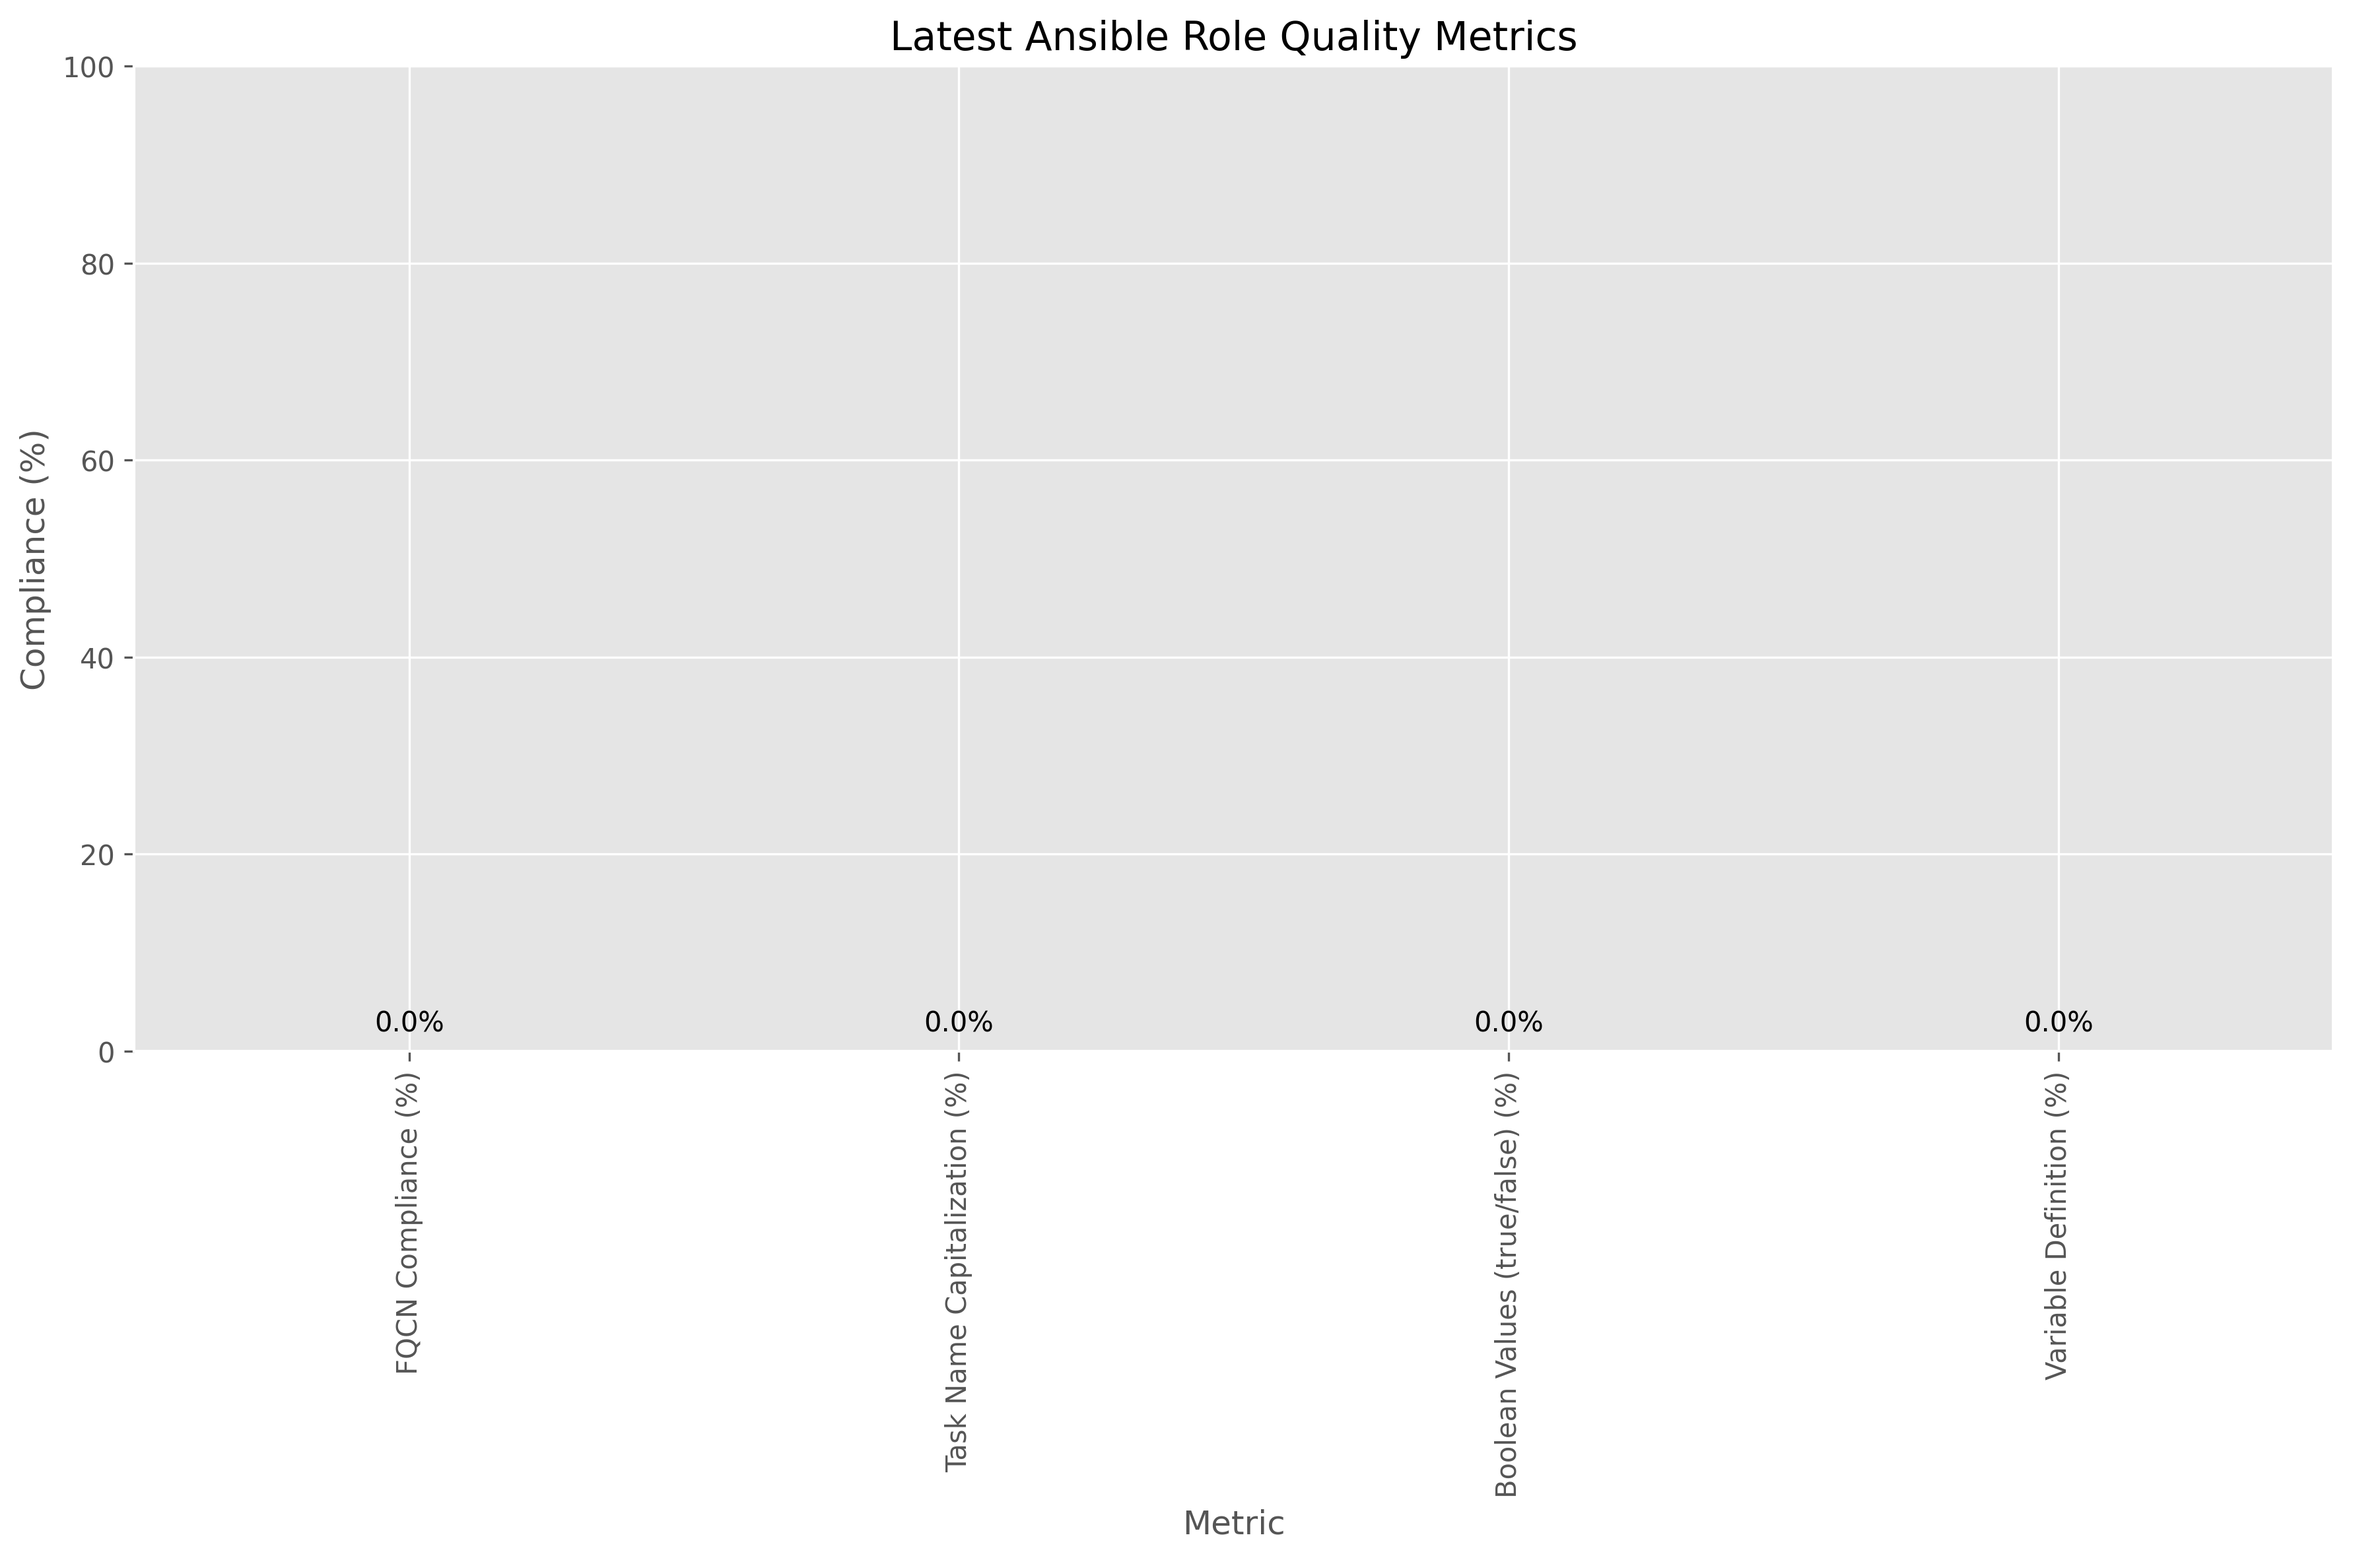
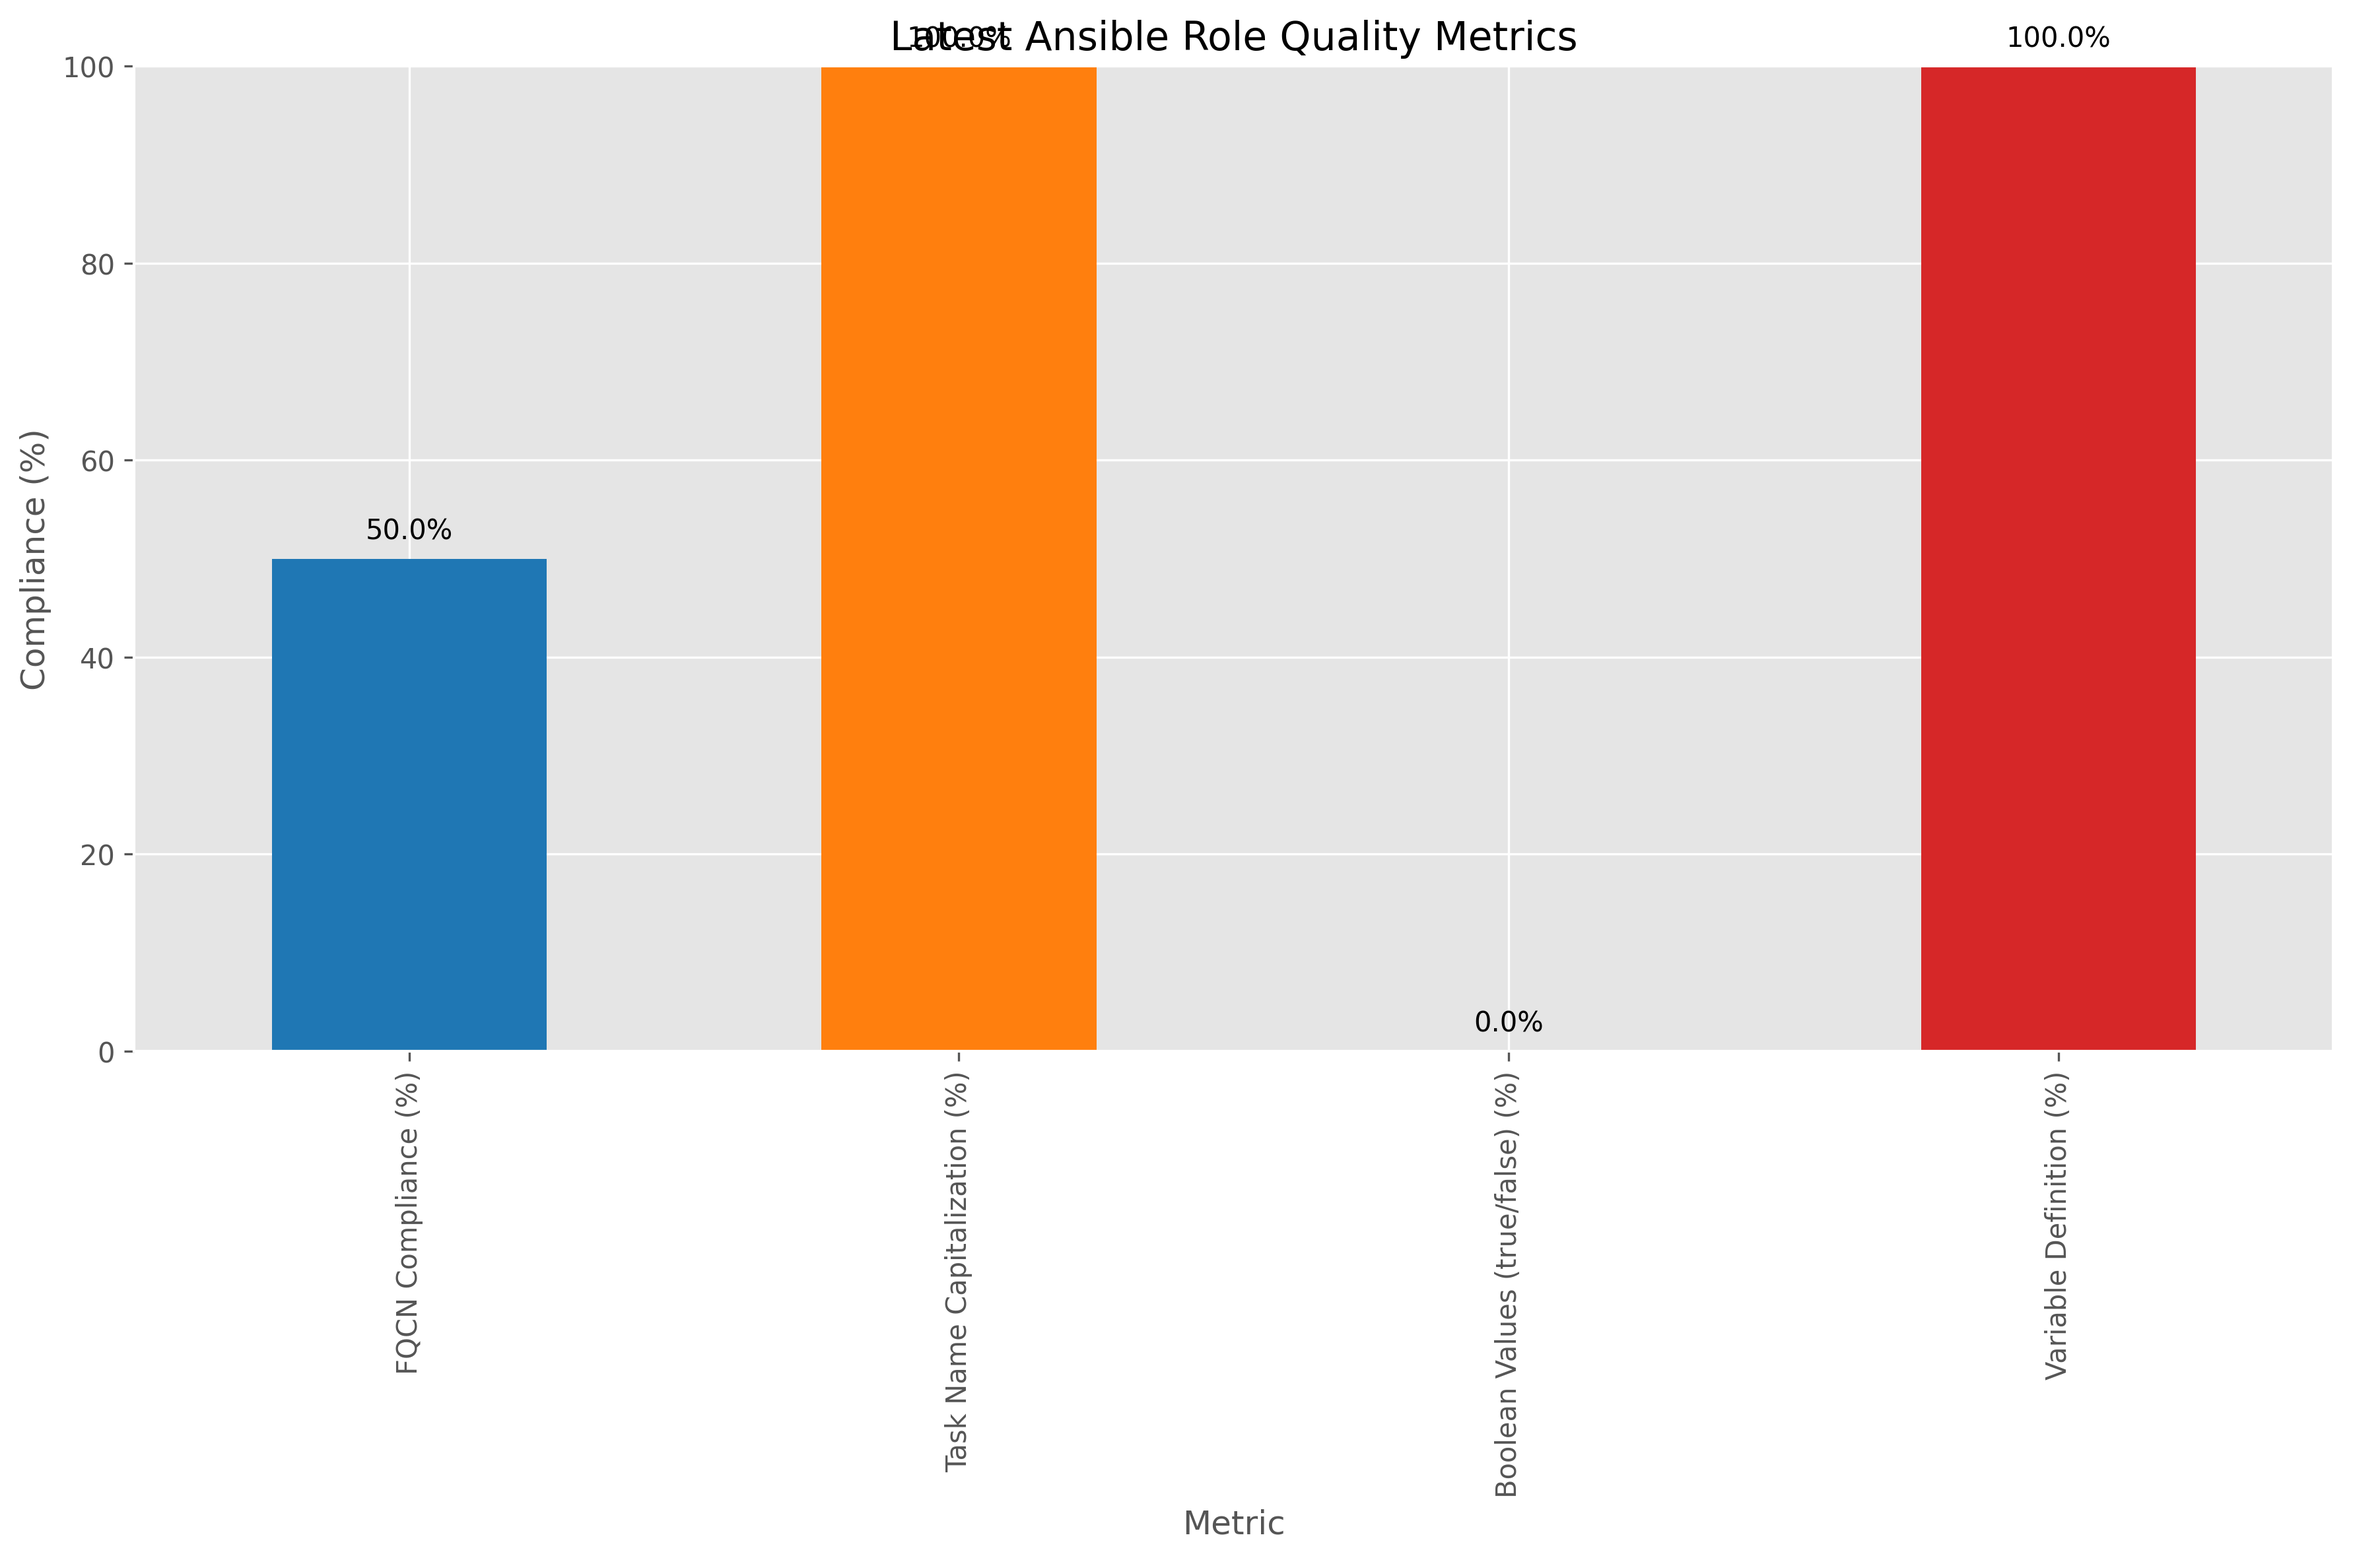
Update metrics (automated) 86381e575e3cb567ae7d61f2b827ec3665fe9a28

Changed region(s): [[0.8098, 0.0, 0.9343, 0.6794], [0.3426, 0.0309, 0.4672, 0.6794], [0.0934, 0.3397, 0.2492, 0.6794]]

diff --git a/metrics/metrics_summary.md b/metrics/metrics_summary.md
@@ -1,15 +1,15 @@
 # Chef to Ansible Conversion Metrics
 
-Last updated: 2025-06-22 00:29:21
+Last updated: 2025-06-29 00:30:14
 
 ## Latest Compliance Metrics
 
 | Metric | Value |
 |--------|-------|
-| FQCN Compliance (%) | 0.00% |
-| Task Name Capitalization (%) | 0.00% |
+| FQCN Compliance (%) | 50.00% |
+| Task Name Capitalization (%) | 100.00% |
 | Boolean Values (true/false) (%) | 0.00% |
-| Variable Definition (%) | 0.00% |
+| Variable Definition (%) | 100.00% |
 
 ## Compliance Metrics Over Time
 
